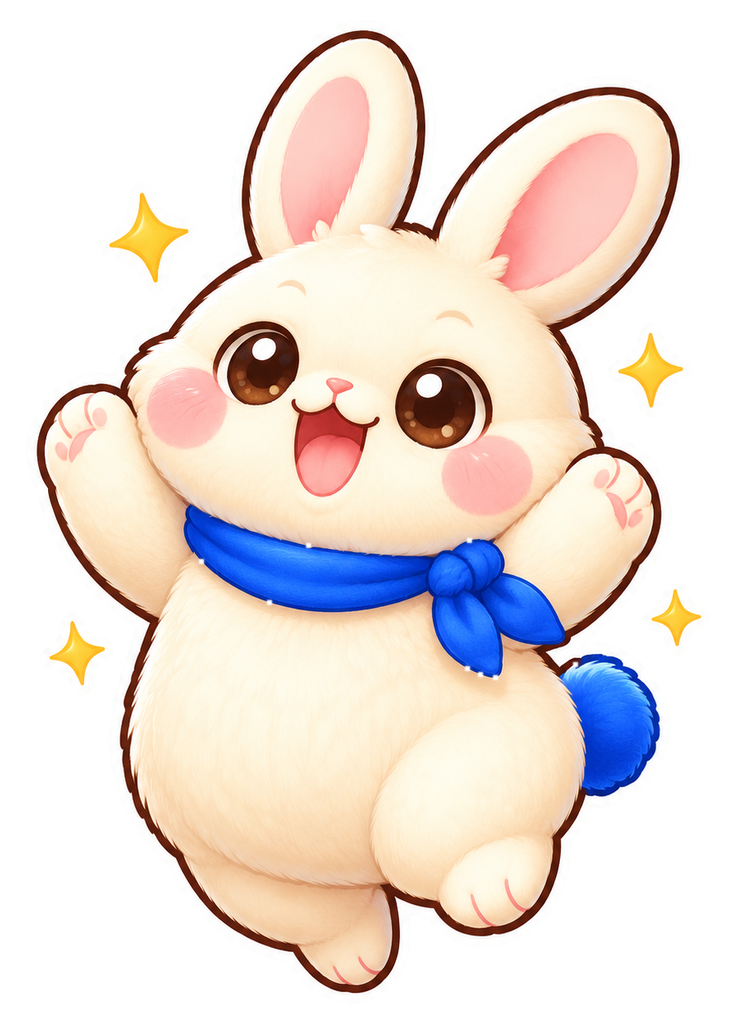
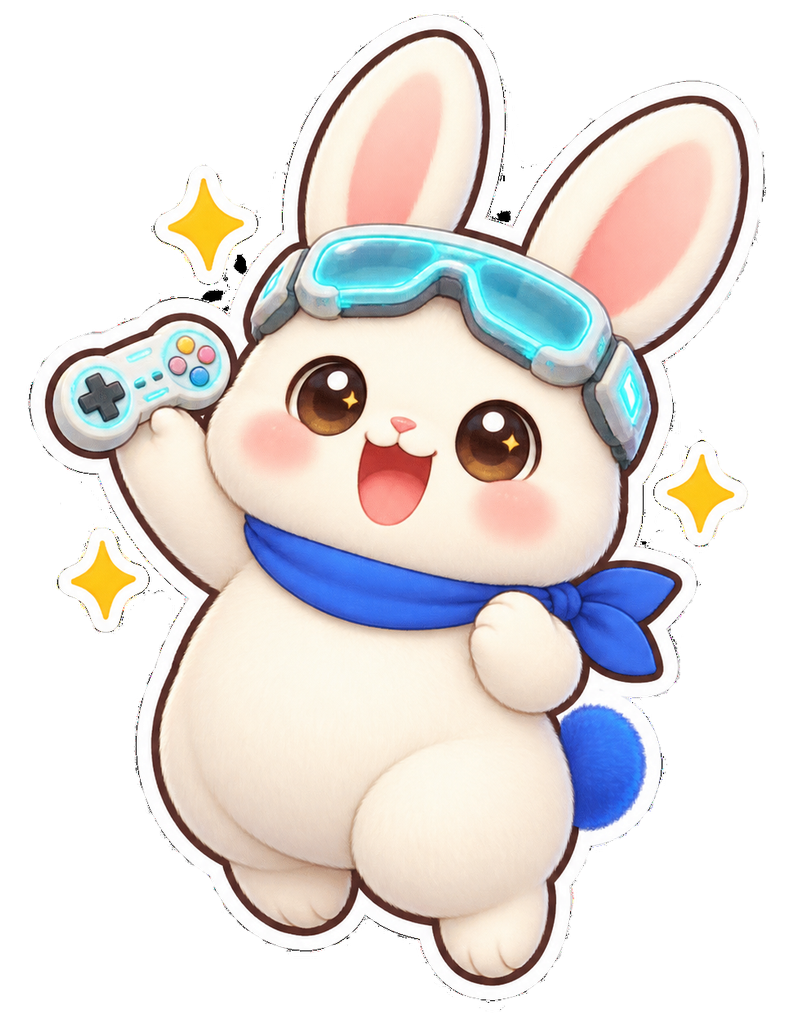
feat(brand): Zanzi 升级卡哇伊科技兔——AR护目镜/全息键盘+无人机/游戏手柄/能量臂铠六姿态
- 新增锚定特征④：额头推起的 AR 护目镜（Glow 青辉光），科技感走道具不动体型
- 姿态五→六：cheer 改举游戏手柄，code 改全息键盘+无人机伙伴（智能体），
  新增 zanzi-battle（能量臂铠+护盾，能打能战）
- 色板新增 Zan Glow #45E6FF（科技辉光专用，小面积）；色板卡 8 块 2x4
- postprocess 抠底改自适应：边框中位色识别绿幕/黑卡（本批四张 API 无视
  绿幕指令返了纯黑卡）+ 连通域清理生成噪点，透明底全量复核通过
- prompts.md/VI.md 同步：角色卡、姿态、踩坑记录、§7 尺寸清单

diff --git a/assets/brand/tools/postprocess.py b/assets/brand/tools/postprocess.py
@@ -11,27 +11,94 @@ BRAND = Path(__file__).resolve().parent.parent          # assets/brand
 REPO = BRAND.parent.parent                              # repo root
 RAW = Path(sys.argv[1]) if len(sys.argv) > 1 else BRAND / "_raw"
 
-def key_green(im: Image.Image) -> Image.Image:
-    # Global chroma key: the flat sticker style guarantees the character
-    # itself contains no green (cream fur / brown outline / blue scarf), so
-    # every greenish pixel is background.  Erode 1px to eat the blend fringe,
-    # then soften for clean edges.
+def key_bg(im: Image.Image) -> Image.Image:
+    # Adaptive background removal.  The API mostly honors the chroma-green
+    # instruction, but some gens come back on a pure black card instead —
+    # detect the backdrop from the border median and pick the key.
+    import numpy as np
+    from PIL import ImageDraw
     im = im.convert("RGB")
-    r, g, b = im.split()
-    greenish = Image.eval(g, lambda p: 255 if p > 150 else 0)
-    r_ok = Image.eval(r, lambda p: 255 if p < 170 else 0)
-    b_ok = Image.eval(b, lambda p: 255 if p < 170 else 0)
-    mask = ImageChops_mul(greenish, r_ok, b_ok)          # 255 = background
-    alpha = mask.point(lambda p: 0 if p == 255 else 255)
+    arr = np.array(im)
+    border = np.concatenate([arr[:8].reshape(-1, 3), arr[-8:].reshape(-1, 3),
+                             arr[:, :8].reshape(-1, 3), arr[:, -8:].reshape(-1, 3)])
+    med = np.median(border, axis=0)
+    r, g, b = med
+    if g > 140 and r < 170 and b < 170:
+        # chroma green: the sticker style guarantees the character itself
+        # has no green (cream fur / brown outline / blue scarf), so every
+        # greenish pixel is background
+        rr, gg, bb = im.split()
+        greenish = Image.eval(gg, lambda p: 255 if p > 150 else 0)
+        r_ok = Image.eval(rr, lambda p: 255 if p < 170 else 0)
+        b_ok = Image.eval(bb, lambda p: 255 if p < 170 else 0)
+        m = ImageChops_mul(greenish, r_ok, b_ok)
+    elif r < 70 and g < 70 and b < 70:
+        # black card: flood-fill the dark region reachable from the border
+        # (the white die-cut border keeps the fill out of the character)
+        dark = ((arr[..., 0] < 80) & (arr[..., 1] < 80)
+                & (arr[..., 2] < 80)).astype(np.uint8) * 255
+        m = Image.fromarray(dark, "L")
+        pad = Image.new("L", (m.width + 2, m.height + 2), 255)
+        pad.paste(m, (1, 1))
+        ImageDraw.floodfill(pad, (0, 0), 128, thresh=0)
+        m = pad.crop((1, 1, m.width + 1, m.height + 1)).point(
+            lambda p: 255 if p == 128 else 0)
+    else:
+        print(f"  unknown backdrop median rgb=({r:.0f},{g:.0f},{b:.0f}) — SKIP",
+              flush=True)
+        return im.convert("RGBA")
+    alpha = m.point(lambda p: 0 if p == 255 else 255)
     alpha = alpha.filter(ImageFilter.MinFilter(3)).filter(
         ImageFilter.MinFilter(3)).filter(ImageFilter.GaussianBlur(0.8))
     out = im.convert("RGBA")
     out.putalpha(alpha)
-    return out
+    return drop_specks(out)
 
 def ImageChops_mul(a, b, c):
     from PIL import ImageChops
     return ImageChops.multiply(ImageChops.multiply(a, b), c)
+
+def drop_specks(im: Image.Image, min_area: int = 600) -> Image.Image:
+    # AI gens leave small white blotches on the green screen (glow bleed)
+    # that the chroma key can't see.  Remove connected solid-alpha islands
+    # smaller than min_area — the drone buddy and speed streaks are far
+    # bigger and survive; speckles die together with their feathered halo.
+    import numpy as np
+    from collections import deque
+    a = np.array(im.getchannel("A"))
+    solid = a > 128
+    H, W = solid.shape
+    lbl = np.zeros((H, W), np.int32)
+    drop = np.zeros((H, W), bool)
+    nxt = 0
+    for sy in range(H):
+        for sx in np.nonzero(solid[sy] & (lbl[sy] == 0))[0]:
+            sx = int(sx)
+            if lbl[sy, sx]:
+                continue
+            nxt += 1
+            q = deque([(sy, sx)])
+            lbl[sy, sx] = nxt
+            area = 0
+            while q:
+                y, x = q.popleft()
+                area += 1
+                if y > 0 and solid[y - 1, x] and not lbl[y - 1, x]:
+                    lbl[y - 1, x] = nxt; q.append((y - 1, x))
+                if y < H - 1 and solid[y + 1, x] and not lbl[y + 1, x]:
+                    lbl[y + 1, x] = nxt; q.append((y + 1, x))
+                if x > 0 and solid[y, x - 1] and not lbl[y, x - 1]:
+                    lbl[y, x - 1] = nxt; q.append((y, x - 1))
+                if x < W - 1 and solid[y, x + 1] and not lbl[y, x + 1]:
+                    lbl[y, x + 1] = nxt; q.append((y, x + 1))
+            if area < min_area:
+                drop |= lbl == nxt
+    if drop.any():
+        m = Image.fromarray((drop * 255).astype(np.uint8)).filter(
+            ImageFilter.MaxFilter(7))
+        a[np.array(m) > 0] = 0
+        im.putalpha(Image.fromarray(a))
+    return im
 
 def crop_margin(im: Image.Image, pad: int) -> Image.Image:
     bbox = im.getchannel("A").getbbox()
@@ -40,9 +107,9 @@ def crop_margin(im: Image.Image, pad: int) -> Image.Image:
                     min(im.width, x1 + pad), min(im.height, y1 + pad)))
 
 # ---- mascots: transparent PNG, cropped to silhouette ----
-for name in ["hero", "run", "sleep", "cheer", "code"]:
+for name in ["hero", "run", "sleep", "cheer", "code", "battle"]:
     src = RAW / f"{name}.png"
-    im = key_green(Image.open(src))
+    im = key_bg(Image.open(src))
     n = sum(1 for p in im.getchannel("A").getdata() if p == 0)
     if n < im.width * im.height * 0.2:
         print(f"{name}: SUSPICIOUS — only {n} bg px, keying likely failed", flush=True)
@@ -72,18 +139,24 @@ round_im.save(BRAND / "mascot/zanzi-avatar-round.png")
 print("avatar ok", flush=True)
 
 # ---- app icon: zan.ico (multi-size) + iOS 256 RGB ----
-icon = crop_margin(key_green(Image.open(RAW / "icon.png")), 0)
-side = min(icon.size)
-icon = icon.crop(((icon.width - side) // 2, (icon.height - side) // 2,
-                  (icon.width + side) // 2, (icon.height + side) // 2))
-icon = icon.resize((1024, 1024), Image.LANCZOS)
-sizes = [(256, 256), (128, 128), (64, 64), (48, 48), (32, 32), (24, 24), (16, 16)]
-icon.resize((256, 256), Image.LANCZOS).save(
-    REPO / "assets/zan.ico", sizes=sizes)
-white = Image.new("RGB", icon.size, (255, 255, 255))
-white.paste(icon, (0, 0), icon)
-white.resize((256, 256), Image.LANCZOS).save(REPO / "assets/zan_ios_icon.png")
-print("zan.ico / zan_ios_icon.png ok", flush=True)
+# Only when the icon master is present; mascot-only re-runs keep the
+# committed zan.ico / zan_ios_icon.png untouched.
+if (RAW / "icon.png").exists():
+    icon = crop_margin(key_bg(Image.open(RAW / "icon.png")), 0)
+    side = min(icon.size)
+    icon = icon.crop(((icon.width - side) // 2, (icon.height - side) // 2,
+                      (icon.width + side) // 2, (icon.height + side) // 2))
+    icon = icon.resize((1024, 1024), Image.LANCZOS)
+    sizes = [(256, 256), (128, 128), (64, 64), (48, 48), (32, 32), (24, 24), (16, 16)]
+    icon.resize((256, 256), Image.LANCZOS).save(
+        REPO / "assets/zan.ico", sizes=sizes)
+    white = Image.new("RGB", icon.size, (255, 255, 255))
+    white.paste(icon, (0, 0), icon)
+    white.resize((256, 256), Image.LANCZOS).save(REPO / "assets/zan_ios_icon.png")
+    print("zan.ico / zan_ios_icon.png ok", flush=True)
+else:
+    print("no icon.png in raw dir — keeping committed zan.ico / zan_ios_icon.png",
+          flush=True)
 
 # ---- self check ----
 ico = Image.open(REPO / "assets/zan.ico")

diff --git a/assets/brand/tools/compose.py b/assets/brand/tools/compose.py
@@ -79,6 +79,7 @@ swatches = [
     ("Volt Deep",    "#2141E6", "Gradient / Hover", VOLT_DEEP),
     ("Zan Sky",      "#7DA2FF", "Tint · 浅底",     SKY),
     ("Zan Spark",    "#FFC838", "Accent · 点缀",   SPARK),
+    ("Zan Glow",     "#45E6FF", "Tech · 科技辉光", (69, 230, 255)),
     ("Zan Blush",    "#FFB3C7", "Accent 2 · 耳尖", (255, 179, 199)),
     ("Zan Cream",    "#FFF6E8", "Surface · 毛色",  (255, 246, 232)),
     ("Zan Ink",      "#0F1428", "Text / Dark bg",  INK),
@@ -108,7 +109,7 @@ for i, (name, hexc, rgb) in enumerate(sem):
     cd.text((x + 22, y + 54), hexc.upper(), font=font("consola.ttf", 24), fill=(255, 255, 255))
 
 # mascot strip at the bottom, below the semantic row
-strip_names = ["zanzi-run", "zanzi-sleep", "zanzi-cheer", "zanzi-code"]
+strip_names = ["zanzi-run", "zanzi-battle", "zanzi-sleep", "zanzi-cheer", "zanzi-code"]
 strip_x = PW - 90
 strip_y = PH - 36 - 160
 for n in reversed(strip_names):

diff --git a/assets/brand/VI.md b/assets/brand/VI.md
@@ -25,8 +25,9 @@ assets/brand/
 │   ├── zanzi-avatar(-round).png  头像（方/圆）
 │   ├── zanzi-run.png         奔跑（构建中/极速）
 │   ├── zanzi-sleep.png       睡觉（空闲/挂机）
-│   ├── zanzi-cheer.png       欢呼·举手（发布/成功）
-│   └── zanzi-code.png        敲码（开发中）
+│   ├── zanzi-cheer.png       欢呼·举游戏手柄（发布/成功）
+│   ├── zanzi-code.png        全息键盘+无人机伙伴（编程/智能体）
+│   └── zanzi-battle.png      战斗姿态·能量臂铠+护盾（能打能战）
 ├── banner/
 │   ├── zan-banner.png        GitHub README 横幅 1500×500
 │   └── zan-palette.png       色板总览卡
@@ -42,6 +43,7 @@ assets/brand/
 | 气质 | 视觉转译 |
 |------|----------|
 | 高性能 | 兔子（弹射起步的疾速）、闪电符号、电光蓝渐变 |
+| 科技 | AR 护目镜、全息键盘、无人机伙伴、能量臂铠（Zan Glow 辉光）——全平台编程、智能体、软件、游戏、能打能战 |
 | 干练 | 几何圆角笔画、克制的单点缀、大留白 |
 | 萌 | 吉祥物 Zanzi：圆胖肉感、大眼、粉耳、绒球尾 |
 
@@ -53,6 +55,7 @@ assets/brand/
 | Volt Deep | `#2141E6` | 渐变深端 / hover |
 | Zan Sky | `#7DA2FF` | 浅色 tint：选中态底、暗色环境中的次级文字 |
 | Zan Spark | `#FFC838` | 唯一金色点缀：火花、星光；**不可大面积铺底** |
+| Zan Glow | `#45E6FF` | 科技辉光：护目镜、全息特效、能量武器；**只用于发光小件** |
 | Zan Blush | `#FFB3C7` | 兔耳内耳/鼻头/腮红，柔和点缀；**只用于小面积** |
 | Zan Cream | `#FFF6E8` | 暖色表面（吉祥物毛色同源） |
 | Zan Ink | `#0F1428` | 正文/深色背景 |
@@ -87,36 +90,41 @@ assets/brand/
 
 ## 5. 吉祥物 Zanzi（赞崽）
 
-**人设**：一只圆滚滚的小兔子。像 AOT 编译一样弹射起步，像 ARC 一样省心，
-像值语义一样不给你添乱。性格：精力充沛、干劲十足、编译通过就举爪欢呼，
-偶尔就地睡着。
+**人设**：一只圆滚滚的科技小兔子。像 AOT 编译一样弹射起步，像 ARC 一样省心，
+像值语义一样不给你添乱；戴着 AR 护目镜写全平台代码、指挥全息无人机当智能体、
+发布软件和游戏，关键时刻举着能量臂铠能打能战。性格：精力充沛、干劲十足、
+编译通过就举爪欢呼，偶尔就地睡着。
 
-**三个锚定特征**（任何二创必须保留，缺一不可）：
+**四个锚定特征**（任何二创必须保留，缺一不可）：
 
 1. 长耳 + **Blush 粉内耳**
 2. 脖子上**钴蓝围巾**（Zan Volt 同族色，颈间侧结、结在角色右侧）
 3. **电光蓝绒球尾**（Volt 色相的小圆绒球，闪电的柔软化身）
+4. 额头上推起的**AR 护目镜**（Glow 青辉光；睡觉等姿态也不例外）
 
 **图案规则**（可复制性是这条设计的核心约束，二创请遵守）：
 
 - 身体**圆胖有肉感**：梨形身、圆肚、胖腮、粗短四肢——不许画瘦长体形
 - 毛色**奶油白单色**（#FFF6E8），无斑点无杂纹；粉色只出现在内耳/鼻头/腮红
 - 上色是**柔和体积感**（微渐变 + 高光），不许退回纯平涂
-- 除围巾/绒球尾/粉色三处外**不得引入新颜色**
+- 科技件（护目镜/全息/能量武器）一律 **Glow 青辉光小件**，克制、不堆砌
+- 除围巾/绒球尾/粉色/青辉光四处外**不得引入新颜色**
 
-标准姿态五张（见 `mascot/`）：hero 挥手 / run 奔跑 / sleep 睡觉 / cheer 举爪 / code 敲码；
+标准姿态六张（见 `mascot/`）：hero 挥手 / run 奔跑 / sleep 睡觉 /
+cheer 举游戏手柄 / code 全息键盘+无人机 / battle 能量臂铠+护盾；
 头像（方/圆）与头标 glyph 从 hero 派生。
 
 **符号阶梯**（从大到小逐级抽象，每级都可独立使用）：
 
 全身立绘 → 头像 → **头标 glyph**（zanzi-glyph.svg，favicon/群头像档）→
-长耳剪影 / 电光蓝绒球（可单独作装饰符号，与 logo 火花呼应）。
+长耳剪影 / 电光蓝绒球 / 护目镜（可单独作装饰符号，与 logo 火花呼应）。
 
 **用法**：透明底 PNG 可直接叠在 Volt、Ink、Cream 底色上。
-建议按语境配姿态：构建中→run，发布成功→cheer，空闲→sleep，教程→code。
+建议按语境配姿态：构建中→run，发布成功/游戏通关→cheer，空闲→sleep，
+编程/智能体/教程→code，对战/攻防/安全→battle。
 
-**禁用**：拉伸比例 / 更换色相 / 画瘦 / 去掉三个锚定特征 / 给身体加斑点 /
-加上文字气泡或水印 / 用于与 Zan 无关的产品。
+**禁用**：拉伸比例 / 更换色相 / 画瘦 / 去掉四个锚定特征 / 给身体加斑点 /
+科技件堆砌成机甲 / 加上文字气泡或水印 / 用于与 Zan 无关的产品。
 
 ## 6. 重建
 
@@ -162,11 +170,13 @@ PIL 降采样，透明底）：`logo/png/` 下 `zan-mark-16/32/48/64/128/256/512
 `zan-logo-horizontal-dark-985`、`zan-logo-vertical-640`，以及
 `mascot/png/zanzi-glyph-32/64/128/256`。这批**可由 SVG 完全再生**。
 
-**② 由 AI 生成原图加工**（`tools/postprocess.py`：绿幕抠底 + 切尺寸）：
-`mascot/` 下 `zanzi-hero` 672×1024、`zanzi-run` 903×949、
-`zanzi-sleep` 976×877、`zanzi-cheer` 736×1024、`zanzi-code` 801×1008、
-`zanzi-avatar` 512×512、`zanzi-avatar-round` 512×512。原型为 gpt-image-2
-的 1024×1024 绿幕原图，prompt 权威存档在 `tools/prompts.md`；脚本幂等。
+**② 由 AI 生成原图加工**（`tools/postprocess.py`：绿幕/黑卡自适应抠底 +
+连通域去噪点 + 切尺寸）：`mascot/` 下 `zanzi-hero` 691×1024、`zanzi-run`
+960×965、`zanzi-sleep` 919×910、`zanzi-cheer` 794×1024、`zanzi-code`
+862×1024、`zanzi-battle` 813×1024、`zanzi-avatar` 512×512、
+`zanzi-avatar-round` 512×512。原型为 gpt-image-2 的 1024×1024 原图
+（绿幕或黑卡底由生成批次决定，抠底自动识别），prompt 权威存档在
+`tools/prompts.md`；脚本幂等。
 
 **③ 脚本合成**（`tools/compose.py`，需 PIL）：`banner/zan-banner.png`
 1500×500（GitHub 横幅）、`banner/zan-palette.png` 1600×1180（色板总览卡）。

diff --git a/assets/brand/tools/prompts.md b/assets/brand/tools/prompts.md
@@ -1,24 +1,27 @@
-# Image2 生成 Prompt 存档（兔子 VI）
+# Image2 生成 Prompt 存档（科技兔 VI）
 
 吉祥物与图标原图由 gpt-image-2 一次性生成（1024×1024，纯色绿幕底，
 `#00FF00`），本文件是可复现的权威 prompt。抠底/切尺寸/ico 由
 `postprocess.py` 完成；矢量源（SVG）为手绘几何版，与生成图同一套
 图案规则，两者共同构成权威资产。
 
-## 角色卡（五姿态共用前缀）
+## 角色卡（六姿态共用前缀）
 
 ```text
-Zanzi the bunny: a chubby chibi baby rabbit with an adorably plump pear-shaped
-body, squishy round belly, chubby cheeks and fat round thighs, covered in round
-fluffy cream-white fur (body color #FFF6E8), two long upright ears with soft
-pastel-pink inner ears (#FFB3C7), huge round glossy dark-brown eyes, a tiny
-pink triangle nose, round pink blush cheeks, a cozy cobalt-blue scarf (#2B5CFF)
-tied around the neck with the knot on its right side, and a tiny round powder-
-puff tail in electric blue (#2B5CFF).
+Zanzi the tech bunny: a chubby chibi baby rabbit with an adorably plump
+pear-shaped body, squishy round belly, chubby cheeks and fat round thighs,
+covered in round fluffy cream-white fur (body color #FFF6E8), two long
+upright ears with soft pastel-pink inner ears (#FFB3C7), huge round glossy
+dark-brown eyes, a tiny pink triangle nose, round pink blush cheeks, a cozy
+cobalt-blue scarf (#2B5CFF) tied around the neck with the knot on its right
+side, a tiny round powder-puff tail in electric blue (#2B5CFF), and chunky
+futuristic AR goggles with a soft cyan glow (#45E6FF) pushed up on its
+forehead.
 Cute kawaii chibi sticker illustration, plush-toy softness, soft volumetric
 shading with gentle gradients and glossy highlights, everything round and
-squishy, no flat areas, bold dark-brown outline around the character, clean
-white die-cut sticker border.
+squishy, futuristic tech props with a soft cyan glow, clean uncluttered
+sci-fi accents, bold dark-brown outline around the character, clean white
+die-cut sticker border.
 ```
 
 姿态后缀（加在角色卡后）：
@@ -26,14 +29,20 @@ white die-cut sticker border.
 - hero：`Pose: standing upright, waving one front paw in a friendly hello,
   happy open-mouth smile, ears perked up, full body visible.`
 - run：`Pose: sprinting to the right at full speed, body leaning forward,
-  ears streaming back in the wind, determined joyful grin, full body visible.`
-- sleep：`Pose: curled up peacefully asleep, eyes closed, ears folded down
-  softly, gentle smile, fluffy tail tucked, full body visible.`
-- cheer：`Pose: jumping in joy with both front paws raised high, eyes
-  sparkling, big open-mouth cheer, a few small golden four-pointed sparkle
-  stars floating around, full body visible.`
-- code：`Pose: sitting and typing on a tiny silver laptop resting on the
-  ground in front of it, focused happy expression, ears perked up, full body
+  ears streaming back in the wind, determined joyful grin, a faint cyan
+  holographic speed streak trailing behind, full body visible.`
+- sleep：`Pose: curled up peacefully asleep, eyes closed, AR goggles pushed
+  up on the forehead, ears folded down softly, gentle smile, fluffy tail
+  tucked, full body visible.`
+- cheer：`Pose: jumping in joy holding up a tiny retro game controller with
+  one paw, eyes sparkling, big open-mouth cheer, a few small golden
+  four-pointed sparkle stars floating around, full body visible.`
+- code：`Pose: sitting and typing on a floating holographic keyboard glowing
+  soft cyan, a tiny friendly holographic drone buddy hovering beside it,
+  focused happy expression, ears perked up, full body visible.`
+- battle：`Pose: brave battle stance with a chunky glowing cyan energy
+  gauntlet on one front paw and a small round energy shield floating on the
+  other arm, determined confident smile, ears standing tall, full body
   visible.`
 
 全部以 `Isolated and centered on a solid pure chroma-key green background
@@ -55,6 +64,9 @@ area of the tile. Clean modern design, no text, no letters, no border, no
 shadow.
 ```
 
+图标保持几何简笔（兔头 + 火花），**不戴护目镜**——mark 是最小可识别单元，
+科技叙事由吉祥物承担；16px 下护目镜必然糊成一团。
+
 ## 踩坑记录
 
 - 输出永远是**不透明 RGB**：透明底靠绿幕 + PIL 色度抠底（`postprocess.py`
@@ -65,3 +77,7 @@ shadow.
   （用户反馈「没肉感、立体一点圆润一点」）——改成 `plump pear-shaped body,
   plush-toy softness, soft volumetric shading, everything round and squishy`
   才出想要的圆胖质感。**风格词决定体积感，角色卡决定一致性**，两段都要。
+- 第二轮用户定位「卡哇伊科技兔：全平台编程、智能体、软件、游戏、能打能战」
+  ——科技感走**道具**（护目镜/全息键盘/无人机/能量臂铠）而不是改身体：
+  身体保持奶油白毛绒，科技件一律 Glow 青辉光小件。把科技感写进体型或
+  换主色调会毁掉贴纸萌系的一致性。
